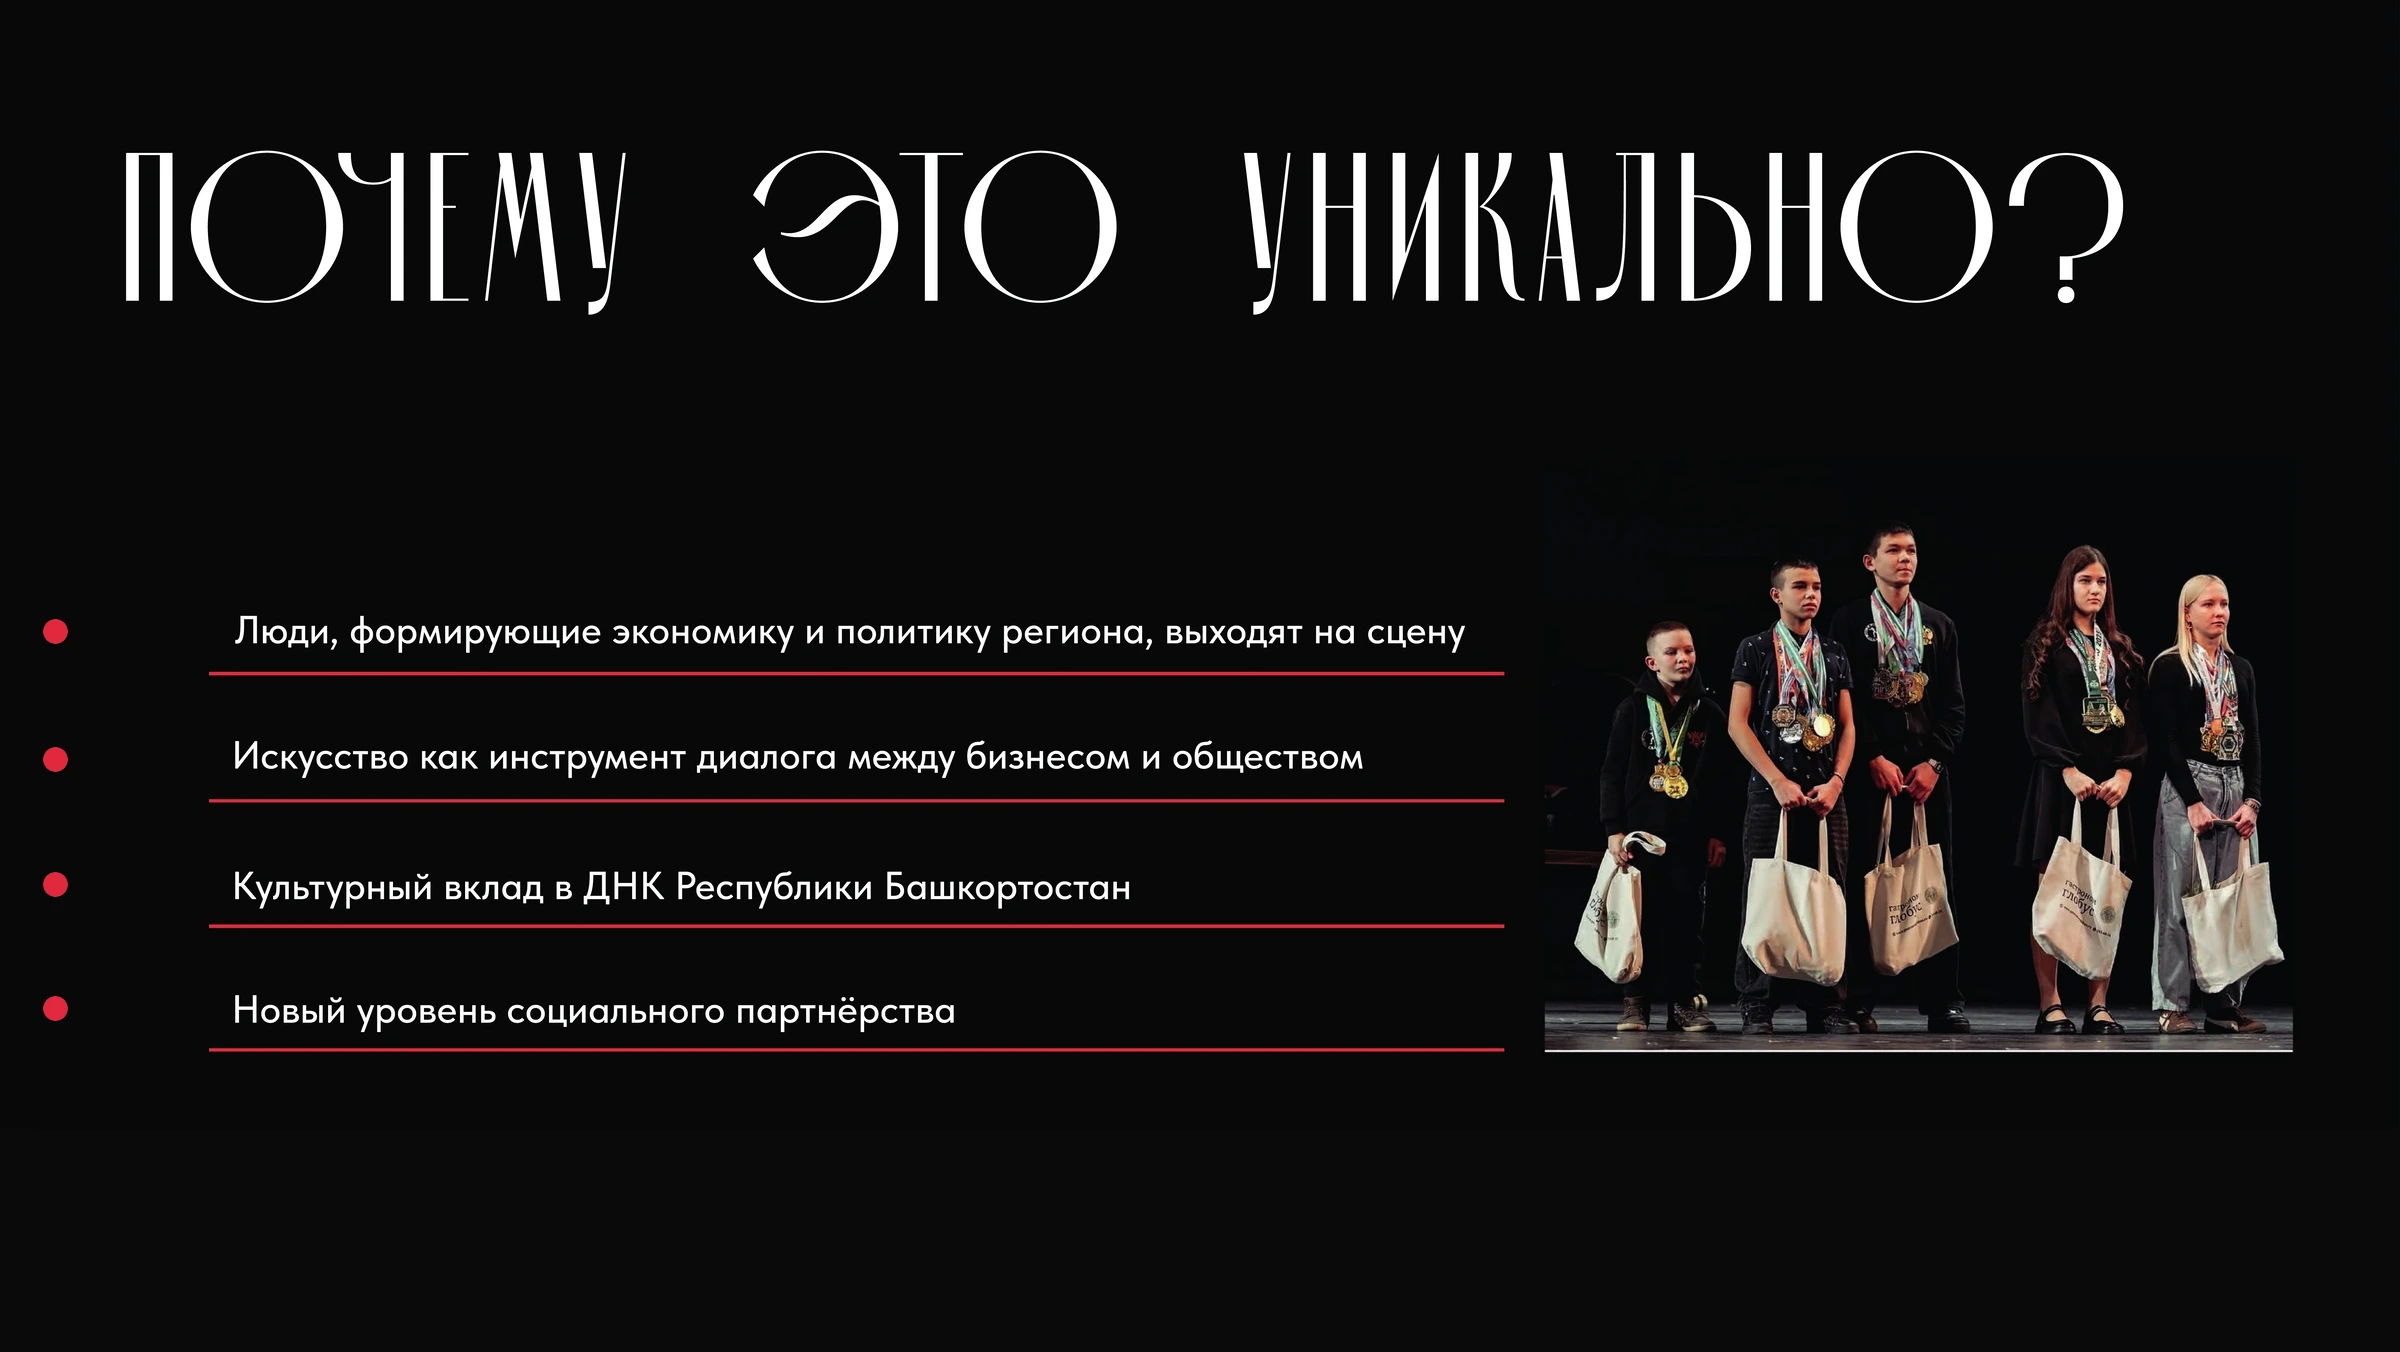
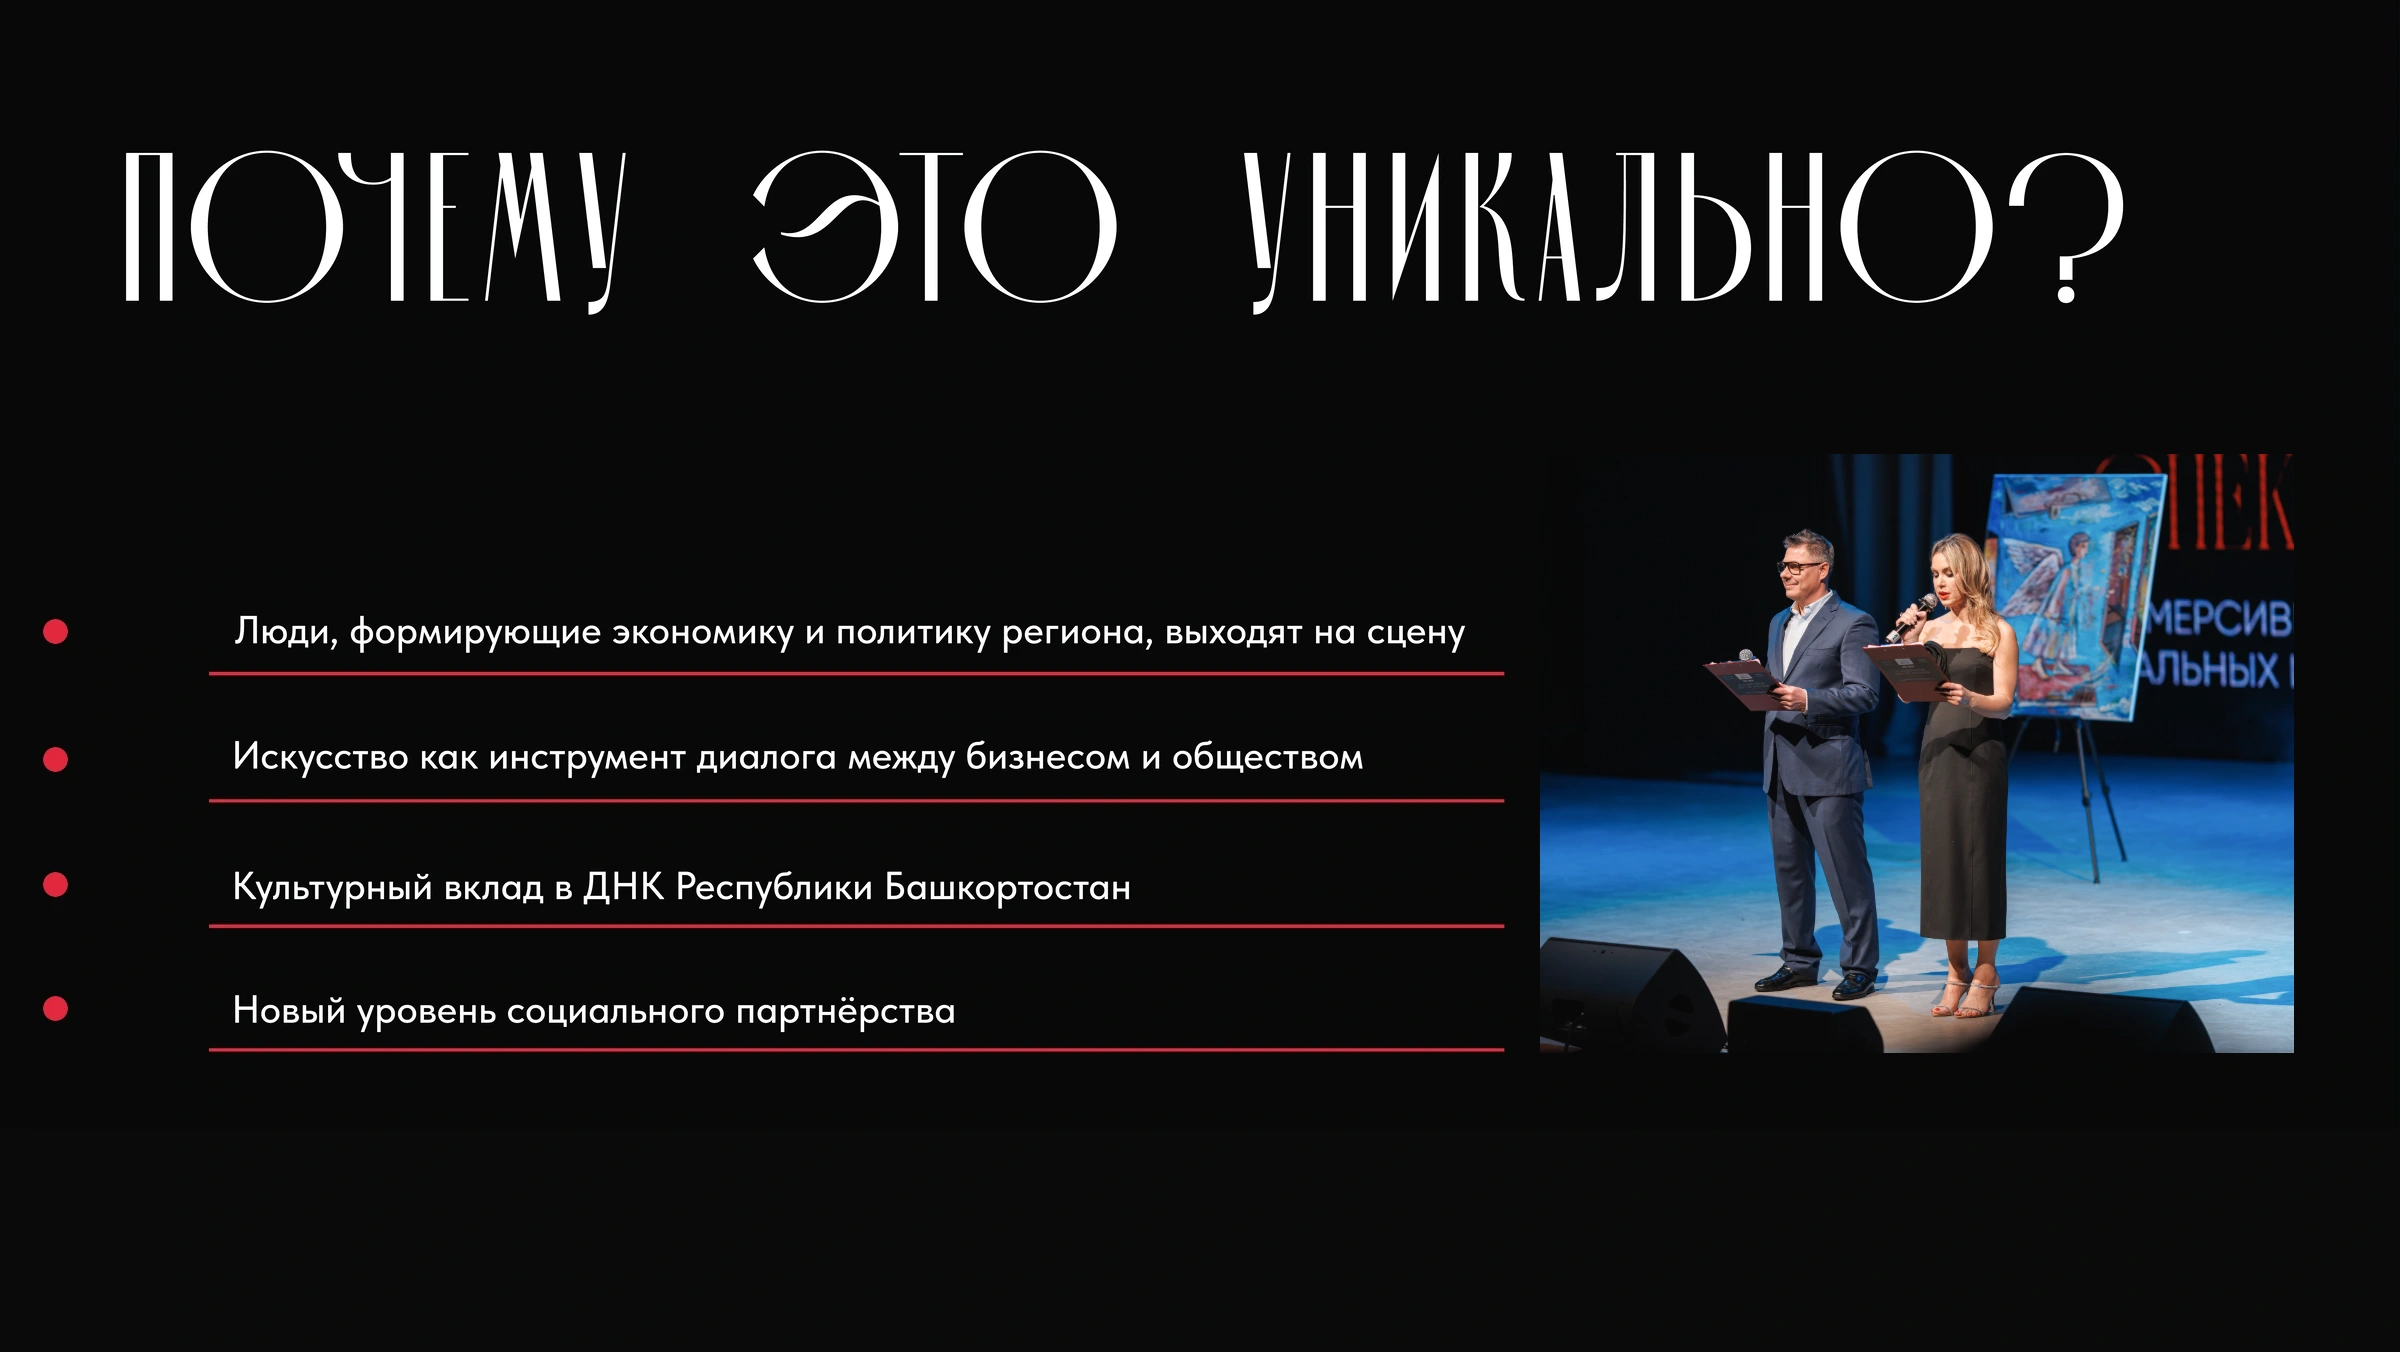
home: turn the why block into a real deck slide
On phones «Почему это уникально?» was hand-built markup (heading image,
list, photo) while the other four slides are single designer images, so it
sat in the deck as a framed box with its own typography. It is now one slide
with a phone source, exactly like the rest:

- mobile-why.webp (800x1349) carries heading, the four points, the photo and
  a centred «Благотворительная акция проекта» caption.
- the wide slide keeps its art but swaps the old photo for the new stage shot
  (studio photo of the two hosts in front of the painting), and its caption
  is now centred on the photo block instead of starting left of it.
- the source switches at 1280px, where the wide art first becomes legible;
  the DOM caption is hidden below that because the phone art has it baked in.

why-heading.webp is no longer referenced and is gone. why-stage.jpg stays —
ufa-nov-2026 still uses it for its own section and og:image.

Changed region(s): [[0.625, 0.3107, 0.9688, 0.7766]]

diff --git a/index.html b/index.html
@@ -14,7 +14,7 @@
 	<meta property="og:image" content="assets/img/og.png">
 	<link rel="icon" href="assets/img/accent-circle.svg" type="image/svg+xml">
 	<link rel="preload" href="assets/fonts/TildaSans-VF.woff2" as="font" type="font/woff2" crossorigin>
-	<link rel="stylesheet" href="assets/css/main.css?v=20261026a">
+	<link rel="stylesheet" href="assets/css/main.css?v=20261027a">
 	<script>if (!window.matchMedia || !matchMedia('(prefers-reduced-motion: reduce)').matches) {document.documentElement.classList.add('motion');}</script>
 </head>
 
@@ -104,44 +104,15 @@
 			</figure>
 			<figure class="pdf-slide pdf-slide_why reveal">
 				<div class="pdf-slide__frame">
-					<img src="assets/img/story/pdf-why-points.webp"
-						alt="Почему это уникально: люди, формирующие экономику и политику региона, выходят на сцену; искусство как инструмент диалога между бизнесом и обществом; культурный вклад в ДНК Республики Башкортостан; новый уровень социального партнёрства."
-						width="2400" height="1352" loading="lazy">
+					<picture>
+						<source media="(max-width:1279px)" srcset="assets/img/story/mobile-why.webp?v=2" width="800" height="1349">
+						<img src="assets/img/story/pdf-why-points.webp?v=2"
+							alt="Почему это уникально: люди, формирующие экономику и политику региона, выходят на сцену; искусство как инструмент диалога между бизнесом и обществом; культурный вклад в ДНК Республики Башкортостан; новый уровень социального партнёрства."
+							width="2400" height="1352" loading="lazy">
+					</picture>
 					<figcaption>Благотворительная акция проекта</figcaption>
 				</div>
 			</figure>
-
-			<section class="why-mobile" aria-label="Почему это уникально?">
-				<div class="why-mobile__card">
-					<img class="why-mobile__heading" src="assets/img/story/why-heading.webp?v=2" alt="Почему это уникально?"
-						width="1464" height="180" loading="lazy">
-					<ol class="why__list" data-reveal-group>
-						<li class="why__item reveal">
-							<span class="why__dot" aria-hidden="true"></span>
-							<p>Люди, формирующие экономику и политику региона, выходят на сцену</p>
-						</li>
-						<li class="why__item reveal">
-							<span class="why__dot" aria-hidden="true"></span>
-							<p>Искусство как инструмент диалога между бизнесом и обществом</p>
-						</li>
-						<li class="why__item reveal">
-							<span class="why__dot" aria-hidden="true"></span>
-							<p>Культурный вклад в ДНК Республики Башкортостан</p>
-						</li>
-						<li class="why__item reveal">
-							<span class="why__dot" aria-hidden="true"></span>
-							<p>Новый уровень социального партнёрства</p>
-						</li>
-					</ol>
-					<figure class="why-mobile__photo reveal_img">
-						<div class="why__media-frame">
-							<img src="assets/img/story/why-stage.jpg" alt="Вручение подарка на сцене" width="1600" height="1067"
-								loading="lazy">
-						</div>
-						<figcaption>Благотворительная акция проекта</figcaption>
-					</figure>
-				</div>
-			</section>
 		</section>
 
 		<!-- ============================ СПЕКТАКЛИ ============================ -->

diff --git a/assets/css/main.css b/assets/css/main.css
@@ -698,14 +698,26 @@ html.menu-open body {
    color: var(--muted-3);
 }
 
+/* The frame wraps the whole slide so the caption is positioned against the
+   art itself; the picture inside already paints the fades. */
+.pdf-slide_why .pdf-slide__frame::before,
+.pdf-slide_why .pdf-slide__frame::after {
+   display: none;
+}
+
+/* The caption hangs under the photo block of the slide: the box matches the
+   photo's edges (64.2% … 95.6% of the art), so centring lands on the photo
+   rather than on the whole slide. nowrap keeps it one centred line. */
 .pdf-slide_why figcaption {
    position: absolute;
    top: 78.6%;
-   right: 4%;
-   left: 61%;
+   right: 4.4%;
+   left: 64.2%;
    z-index: 2;
    margin: 0;
    padding: 0;
+   text-align: center;
+   white-space: nowrap;
 }
 
 /* ============================ programme sections ============================ */
@@ -1176,65 +1188,15 @@ html.js-reveal .reveal_img.is-in figcaption {
    }
 }
 
-.why-mobile {
-   display: none;
-}
-
 @media (max-width: 1279px) {
-   .why-mobile {
-      display: block;
-      margin: 0;
-   }
 
-   .why-mobile__card {
-      padding: 24px;
-      background: var(--bg-card);
-      border: 1px solid var(--line-soft);
-      border-radius: 20px;
-   }
-
-   .why-mobile__heading {
-      display: block;
-      width: 100%;
-      height: auto;
-      margin: 8px 0 22px;
-   }
-
-   .why-mobile .why__list {
-      margin-top: 0;
-   }
-
-   .why-mobile__photo {
-      margin: 28px 0 0;
-   }
-
-   .why-mobile__photo .why__media-frame {
-      aspect-ratio: 3 / 2;
-   }
-
-   .why-mobile__photo figcaption {
-      margin-top: 14px;
-      font-size: 15.6px;
-      font-weight: 600;
-      letter-spacing: 0.12em;
-      text-transform: uppercase;
-      color: var(--muted-3);
-   }
-
-   .pdf-slide_why {
+   /* The phone slide carries its caption inside the art. */
+   .pdf-slide_why figcaption {
       display: none;
    }
 }
 
 @media (min-width: 1280px) {
-   .why-mobile {
-      display: none;
-   }
-
-   .pdf-slide_why {
-      display: block;
-   }
-
    .programme-pdf {
       padding: clamp(40px, 5vw, 72px) clamp(24px, 4vw, 56px);
    }

diff --git a/ufa-nov-2026/index.html b/ufa-nov-2026/index.html
@@ -14,7 +14,7 @@
 	<meta property="og:image" content="../assets/img/story/why-stage.jpg">
 	<link rel="icon" href="../assets/img/accent-circle.svg" type="image/svg+xml">
 	<link rel="preload" href="../assets/fonts/TildaSans-VF.woff2" as="font" type="font/woff2" crossorigin>
-	<link rel="stylesheet" href="../assets/css/main.css?v=20261026a">
+	<link rel="stylesheet" href="../assets/css/main.css?v=20261027a">
 	<link rel="stylesheet" href="../assets/css/show.css?v=20261023d">
 	<script>if (!window.matchMedia || !matchMedia('(prefers-reduced-motion: reduce)').matches) {document.documentElement.classList.add('motion');}</script>
 </head>
